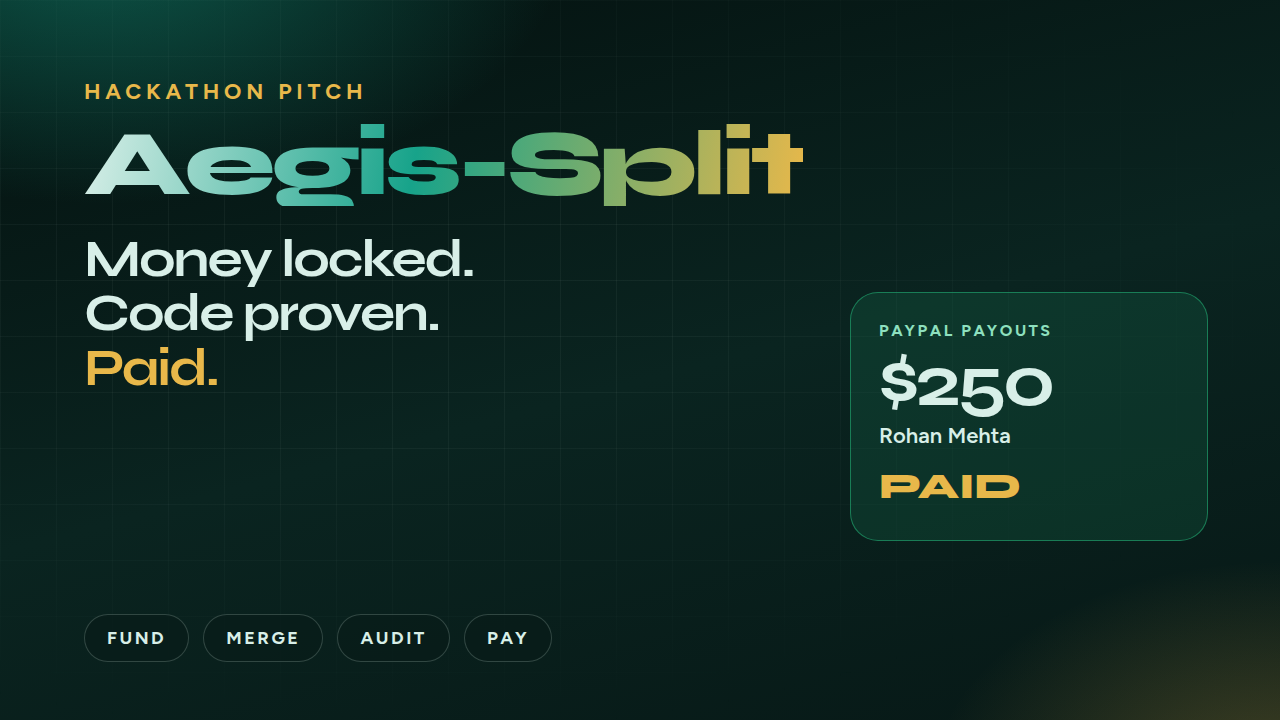
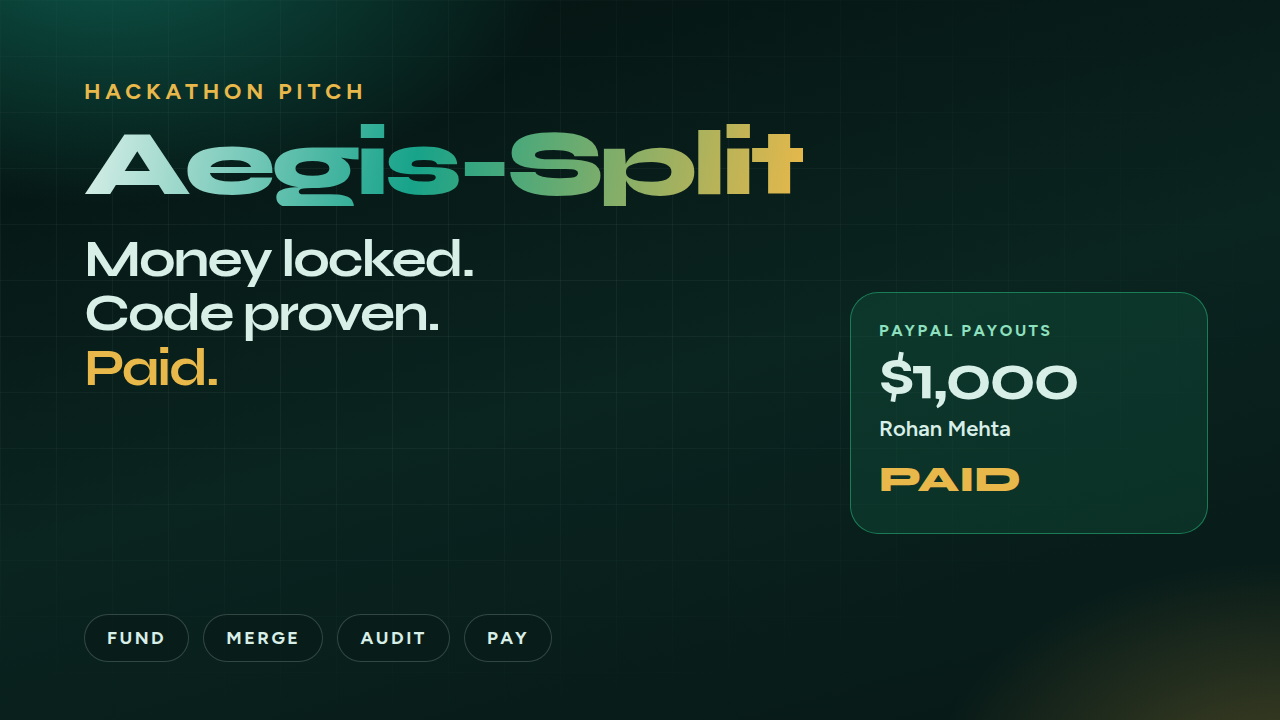
Show a $1,000 payout on the pitch thumbnail
The thumbnail card now reads $1,000 paid to Rohan Mehta.

Changed region(s): [[0.6875, 0.4889, 0.8438, 0.6111], [0.6875, 0.6417, 0.8125, 0.7028], [0.9062, 0.7333, 0.9375, 0.7639]]

diff --git a/pitch/thumbnail.html b/pitch/thumbnail.html
@@ -131,7 +131,7 @@
         display: block;
         margin-top: 8px;
         font-family: "Syne", "Avenir Next", sans-serif;
-        font-size: 72px;
+        font-size: 64px;
         letter-spacing: -0.05em;
         line-height: 0.95;
       }
@@ -165,7 +165,7 @@
       </div>
       <aside class="card">
         <p class="label">PAYPAL PAYOUTS</p>
-        <strong>$250</strong>
+        <strong>$1,000</strong>
         <p class="who">Rohan Mehta</p>
         <p class="status">PAID</p>
       </aside>
